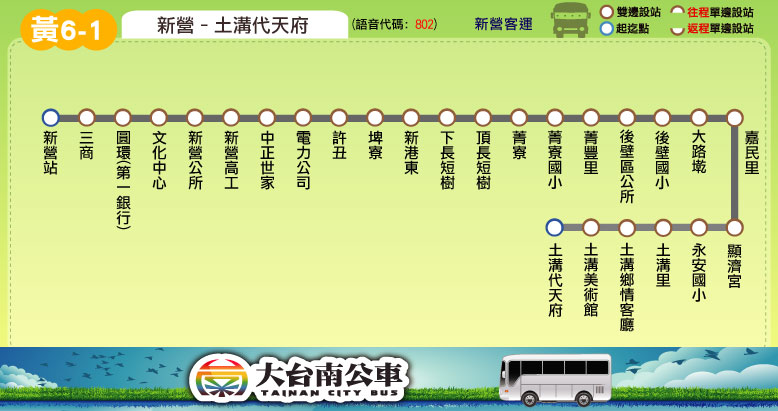
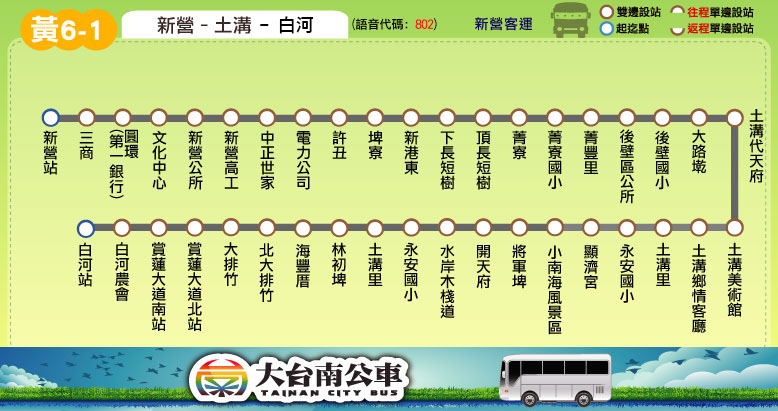
路線更新：黃6-1 (延駛小南海、林初埤、白河站)

diff --git a/route/fare_and_time/yellow_6_1.js b/route/fare_and_time/yellow_6_1.js
@@ -1,4 +1,4 @@
-yellow_6_1_interval_name = ["新營","埤寮","新港東","頂長<br />短樹","菁寮","後壁<br />區公所","大路墘","顯濟宮","土溝里","土溝<br />代天府"];
+yellow_6_1_interval_name = ["新營","埤寮","新港東","頂長<br />短樹","菁寮","後壁<br />區公所","大路墘","土溝<br />代天府","顯濟宮","小南海<br />風景區","林初埤","大排竹","白河站"];
 yellow_6_1_interval_stop = [ // 2015.7.5 checked
 ["新營站","三商","圓環(第一銀行)","文化中心","新營公所","新營高工","中正世家"], // 新營
 ["電力公司","許丑","埤寮"], // 埤寮
@@ -7,9 +7,12 @@ yellow_6_1_interval_stop = [ // 2015.7.5 checked
 ["菁寮","菁寮國小","菁豐里"], // 菁寮
 ["後壁區公所","後壁國小"], // 後壁區公所
 ["大路墘"], // 大路墘
-["嘉民里","顯濟宮","永安國小"], // 顯濟宮
-["土溝里","土溝鄉情客廳","土溝美術館"], // 土溝里
-["土溝代天府"] // 土溝代天府
+["土溝代天府","土溝美術館","土溝鄉情客廳","土溝里"], // 土溝代天府
+["永安國小","顯濟宮"], // 顯濟宮
+["小南海風景區","將軍埤","開天府","水岸木棧道","永安國小","顯濟宮"], // 小南海風景區
+["林初埤","海豐厝"], // 林初埤
+["北大排竹","大排竹","賞蓮大道北站","賞蓮大道南站"], // 大排竹
+["白河農會","白河站"] // 白河站
 ];
 yellow_6_1_fare = [
 [26],
@@ -17,17 +20,20 @@ yellow_6_1_fare = [
 [26,26,26],
 [28,26,26,26],
 [33,26,26,26,26],
-[51,36,31,26,26,26],
-[57,41,36,26,26,26,26],
-[63,48,43,33,26,26,26,26],
-[69,53,48,38,30,26,26,26,26],
-[72,56,51,41,33,26,26,26,26,26]
+[48,35,30,26,26,26],
+[53,41,35,26,26,26,26],
+[58,45,40,30,26,26,26,26],
+[66,53,48,38,26,26,26,26,26],
+[72,60,55,44,40,26,26,26,26,26],
+[91,79,74,63,59,43,38,34,26,26,26],
+[98,86,81,70,65,50,45,40,32,26,26,26],
+[107,94,89,79,74,59,54,49,41,34,26,26,26]
 ];
 // format = [time at the start stop] or
 // [time, other] or
 // [time, start_stop, end_stop, other]
-yellow_6_1_main_stop_name = ["新營","電力公司","菁寮","後壁<br />區公所","永安國小","土溝<br />代天府"];
-yellow_6_1_main_stop_time_consume = [0, 6, 20, 28, 35, 40];
-yellow_6_1_important_stop = [0, 3]; // 新營, 土溝
-yellow_6_1_time_go = [["08:00"],["08:30"],["09:50"],["10:20"],["12:30"],["13:30"],["14:20"],["15:30"],["16:20"],["17:20"]];
-yellow_6_1_time_return = [["08:50"],["09:20"],["10:40"],["11:10"],["13:20"],["14:20"],["15:10"],["16:20"],["17:10"],["18:10"]];
+yellow_6_1_main_stop_name = ["新營","電力公司","菁寮","後壁<br />區公所","土溝<br />代天府","小南海<br />風景區","林初埤","白河站"];
+yellow_6_1_main_stop_time_consume = [0, 6, 20, 28, 35, 44, 55, 63];
+yellow_6_1_important_stop = [0, 3, 7]; // 新營, 後壁區公所, 白河站
+yellow_6_1_time_go = [["07:30"],["08:30"],["10:10"],["11:10"],["13:10"],["14:10"],["15:40"],["16:40"]];
+yellow_6_1_time_return = [["08:40"],["09:40"],["11:20"],["12:20"],["14:20"],["15:20"],["16:50"],["17:50"]];

diff --git a/yellow/yellow_6_1.html b/yellow/yellow_6_1.html
@@ -3,11 +3,11 @@
 <head>
 <meta http-equiv="Content-Type" content="text/html; charset=utf-8" />
 <script type="text/javascript">
-	route_name = '黃6-1農村樂活公車';
+	route_name = '黃6-1假日農村樂活公車';
 	route_name_en = 'Yellow 6-1';
 	route_file_name = 'yellow_6_1';
 	route_type = 'yellow';
-	route_interval = ['新營','菁寮','土溝'];
+	route_interval = ['新營','菁寮','土溝','白河'];
 </script>
 <script src="../tools/web_model.js"></script> 
 <script type="text/javascript">
@@ -20,8 +20,8 @@
 	block_route_map(null);
 	block_route_info(route_interval,'新營客運','僅假日行駛','里程計費','http://2384.tainan.gov.tw:8080/AGPSRemoteQuery3/ajaxBus.jsp?pathId=1802&locale=zh_TW');
 	block_fare(0, null);
-	block_time_schedule('新營','土溝代天府','<h1><font color="red">僅假日行駛</font></h1>');
-	block_transfer(transfer_hsinyin + transfer_houbi_district_office);
+	block_time_schedule('新營','白河','<h1><font color="red">僅假日行駛</font></h1>');
+	block_transfer(transfer_hsinyin + transfer_houbi_district_office + transfer_baihe);
 	block_copyright();
 </script>
 </body>

diff --git a/tools/transfer_information.js b/tools/transfer_information.js
@@ -385,9 +385,9 @@ transfer_annan_hospital = '<tr><th rowspan="2">安南醫院</th>\
 
 transfer_baihe = '<tr><th rowspan="2">白河</th>\
 <td style="text-align: center"><img src="' + LOGO_DIR_PATH + 'yellow_transfer_logo.png"></td>\
-	<td id="yellow"><p>' + link_yellow + '、' + link_yellow_10 + '、' + link_yellow_11 + '、' + link_yellow_11_1 + '、</p>\
-	<p>' + link_yellow_12 + '、' + link_yellow_12_1 + '、' + link_yellow_13 + '、' + link_yellow_14 + '、</p>'
-	+  link_yellow_14_1 + '、' + link_yellow_15 + '</td></tr>\
+	<td id="yellow"><p>' + link_yellow + '、' + link_yellow_6_1 + '、' + link_yellow_10 + '、' + link_yellow_11 + '、</p>\
+	<p>' + link_yellow_11_1 + '、' + link_yellow_12 + '、' + link_yellow_12_1 + '、</p>'
+	+ link_yellow_13 + '、' + link_yellow_14 + '、' +  link_yellow_14_1 + '、' + link_yellow_15 + '</td></tr>\
 <tr><td style="text-align: center"><img src="' + LOGO_DIR_PATH + 'highway_bus_transfer_logo.png"></td>\
 	<td id="tour_bus">' + link_highway_bus_7210 + '、' + link_highway_bus_7214 + '</td></tr>';
 

diff --git a/tools/route_infor.js b/tools/route_infor.js
@@ -77,7 +77,7 @@ yellow_3_route = '新營 ─ 柳營 ─ 果毅後';
 yellow_4_route = '新營 ─ 二重溪 ─ 六甲';
 yellow_5_route = '新營 ─ 紅毛厝 ─ 下營';
 yellow_6_route = '新營 ─ 白沙屯 ─ 後壁火車站';
-yellow_6_1_route = '新營 ─ 菁寮 ─ 土溝<br /><div class="sub_title">農村樂活公車</div>';
+yellow_6_1_route = '新營 ─ 菁寮 ─ 土溝 ─ 白河<br /><div class="sub_title">假日農村樂活公車</div>';
 yellow_7_route = '新營 ─ 東山 ─ 青山 ─ 仙公廟';
 yellow_9_route = '新營 ─ 後壁火車站 ─ 高鐵嘉義站';
 yellow_10_route = '後壁 ─ 白河 ─ 六重溪';
